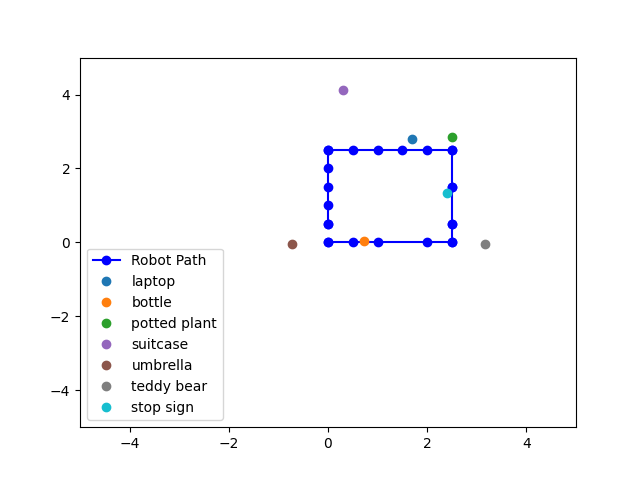
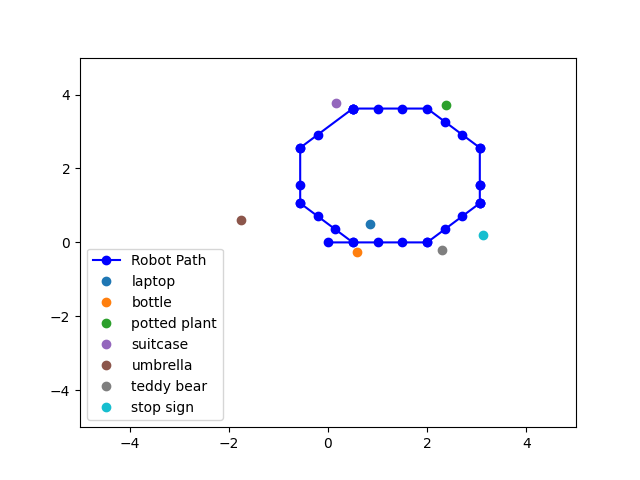
hw5 step 1 complete

diff --git a/rb5_control/src/hw3_move.py b/rb5_control/src/hw3_move.py
@@ -23,58 +23,66 @@ class MovementCommands(Node):
         )
 
         self.steps = [
-            # square
-            ['move', 0.5],
-            ['move', 0.5],
-            ['move', 0.5],
-            ['move', 0.5],
-            ['move', 0.5],
-            ['spin', 90],
-            ['move', 0.5],
-            ['move', 0.5],
-            ['move', 0.5],
-            ['move', 0.5],
-            ['move', 0.5],
-            ['spin', 90],
-            ['move', 0.5],
-            ['move', 0.5],
-            ['move', 0.5],
-            ['move', 0.5],
-            ['move', 0.5],
-            ['spin', 90],
-            ['move', 0.5],
-            ['move', 0.5],
-            ['move', 0.5],
-            ['move', 0.5],
-            ['move', 0.5],
-            ['spin', 90],
-            # # move to start ocotogon
+            # # square
             # ['move', 0.5],
+            # ['move', 0.5],
+            # ['move', 0.5],
+            # ['move', 0.5],
+            # ['move', 0.5],
+            # ['spin', 90],
+            # ['move', 0.5],
+            # ['move', 0.5],
+            # ['move', 0.5],
+            # ['move', 0.5],
+            # ['move', 0.5],
+            # ['spin', 90],
+            # ['move', 0.5],
+            # ['move', 0.5],
+            # ['move', 0.5],
+            # ['move', 0.5],
+            # ['move', 0.5],
+            # ['spin', 90],
+            # ['move', 0.5],
+            # ['move', 0.5],
+            # ['move', 0.5],
+            # ['move', 0.5],
+            # ['move', 0.5],
+            # ['spin', 90],
+            # # # move to start ocotogon
+            ['move', 0.5],
             # # octogon
-            # ['move', 0.5],
-            # ['move', 0.5],
-            # ['spin', 45],
-            # ['move', 0.5],
-            # ['move', 0.5],
-            # ['spin', 45],
-            # ['move', 0.5],
-            # ['move', 0.5],
-            # ['spin', 45],
-            # ['move', 0.5],
-            # ['move', 0.5],
-            # ['spin', 45],
-            # ['move', 0.5],
-            # ['move', 0.5],
-            # ['spin', 45],
-            # ['move', 0.5],
-            # ['move', 0.5],
-            # ['spin', 45],
-            # ['move', 0.5],
-            # ['move', 0.5],
-            # ['spin', 45],
-            # ['move', 0.5],
-            # ['move', 0.5],
-            # ['spin', 45],
+            ['move', 0.5],
+            ['move', 0.5],
+            ['move', 0.5],
+            ['spin', 45],
+            ['move', 0.5],
+            ['move', 0.5],
+            ['move', 0.5],
+            ['spin', 45],
+            ['move', 0.5],
+            ['move', 0.5],
+            ['move', 0.5],
+            ['spin', 45],
+            ['move', 0.5],
+            ['move', 0.5],
+            ['move', 0.5],
+            ['spin', 45],
+            ['move', 0.5],
+            ['move', 0.5],
+            ['move', 0.5],
+            ['spin', 45],
+            ['move', 0.5],
+            ['move', 0.5],
+            ['move', 0.5],
+            ['spin', 45],
+            ['move', 0.5],
+            ['move', 0.5],
+            ['move', 0.5],
+            ['spin', 45],
+            ['move', 0.5],
+            ['move', 0.5],
+            ['move', 0.5],
+            ['spin', 45],
         ]
         self.step_counter = -1
 

diff --git a/rb5_control/src/mpi_control.py b/rb5_control/src/mpi_control.py
@@ -69,7 +69,7 @@ class MegaPiController:
     def carSlide(self, speed):
         if self.verbose:
             print("CAR SLIDE:")
-        self.setFourMotors(speed, -speed, -speed, speed)
+        self.setFourMotors(-speed, speed, speed, -speed)
 
     def carMixed(self, v_straight, v_rotate, v_slide):
         if self.verbose:
@@ -91,14 +91,14 @@ if __name__ == "__main__":
 
     mpi_ctrl = MegaPiController(port="/dev/ttyUSB0", verbose=True)
     time.sleep(1)
-    mpi_ctrl.carStraight(30)
-    time.sleep(1)
+    # mpi_ctrl.carStraight(30)
+    # time.sleep(1)
     # mpi_ctrl.carStraight(-30)
     # time.sleep(4)
     # # mpi_ctrl.setFourMotors(0, 0, 30, 0)
     # # time.sleep(4)
-    # # mpi_ctrl.carSlide(55)
-    # time.sleep(4)
+    mpi_ctrl.carSlide(100)
+    time.sleep(5)
     # # mpi_ctrl.carRotate(55)
     # time.sleep(4)
     mpi_ctrl.carStop()
